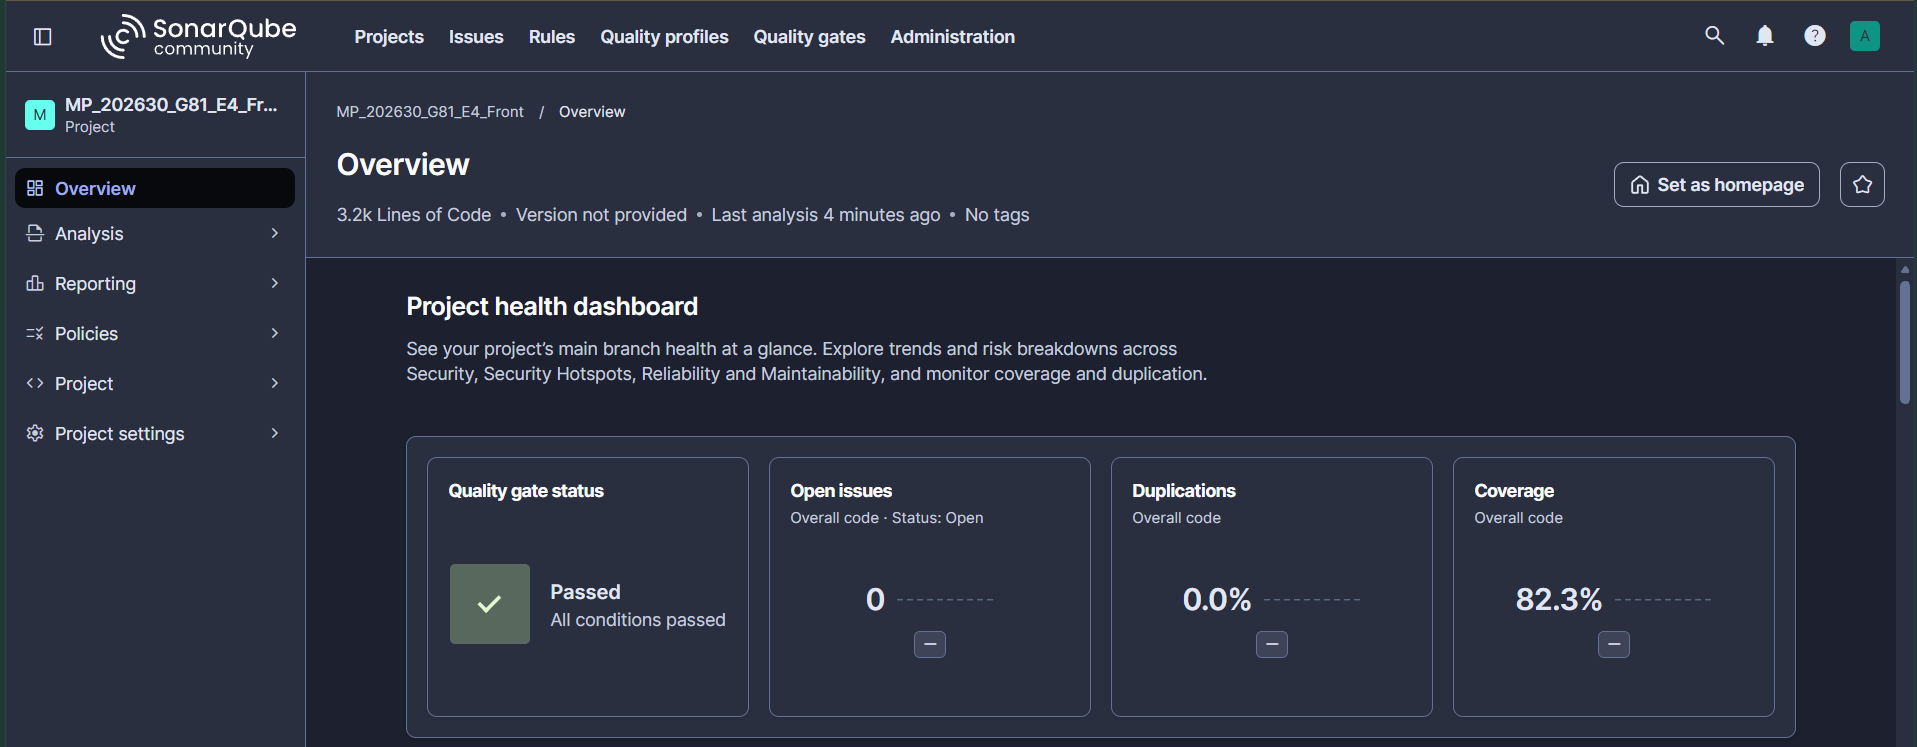
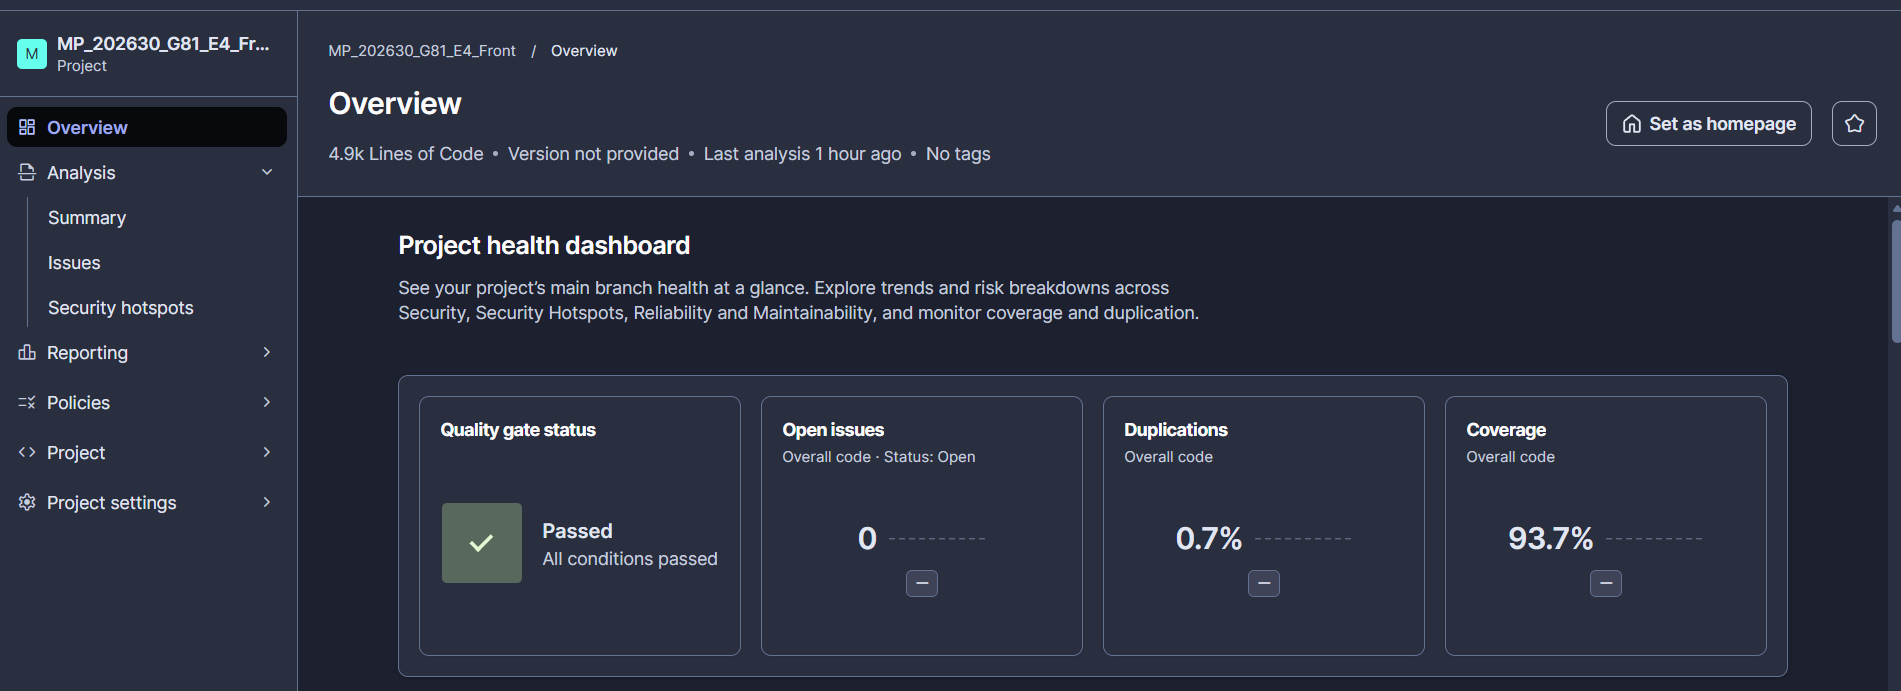
README

diff --git a/README.md b/README.md
@@ -264,6 +264,14 @@ La pantalla permite registrar, consultar, actualizar y eliminar refugios. Se pue
 ## Integración con Git
 Desarrollar la HU13 en `feature/hu13-gestionar-refugios`. Crear un Pull Request hacia `develop` y solicitar la revisión de un compañero antes de fusionar.
 
+## HU14 – Gestionar veterinarios
+
+Ruta: `/shelters/1/veterinarians`. El número corresponde al id del refugio; con los datos de ejemplo actuales solo existe el refugio 1.
+
+La pantalla muestra el refugio y dos paneles: la tabla de veterinarios registrados (nombre, licencia y teléfono, con acciones Editar y Eliminar) y un formulario para registrar un veterinario. Los tres campos son obligatorios y, si falta alguno, se informa cuál. Al pulsar Editar, el mismo formulario carga los datos del veterinario para actualizarlos. Al pulsar Eliminar se pide confirmación y, una vez eliminado, el veterinario deja de aparecer en la lista. Si el refugio no existe, la pantalla informa que no fue encontrado. Contempla los estados de carga, error y lista vacía.
+
+Estado de integración: La conexión con el backend está pendiente. La pantalla usa datos de ejemplo detrás de `src/services/veterinarianService.js`; al conectar el backend solo cambia el cuerpo de las funciones de ese servicio. El comportamiento de la interfaz se valida mediante pruebas automatizadas con Vitest y React Testing Library, utilizando servicios simulados (mocks).
+
 ## HU15 – Registrar reseña de una mascota
 
 Ruta: `/pets/1/reviews`. El número corresponde al id de la mascota; con los datos de ejemplo actuales solo existe la mascota 1.
@@ -271,11 +279,3 @@ Ruta: `/pets/1/reviews`. El número corresponde al id de la mascota; con los dat
 La pantalla muestra la ficha de la mascota, un formulario para dejar una reseña (calificación de 1 a 5 con estrellas y comentario obligatorio, con mensajes que explican el motivo cuando los datos no son válidos) y la lista de reseñas de esa mascota con su total. Al enviar una reseña válida, esta aparece al inicio de la lista. La reseña se firma con el usuario actual fijo definido en `src/config/currentUser.js`.
 
 Estado de integración: La conexión con el backend está pendiente. La pantalla usa datos de ejemplo detrás de `src/services/reviewService.js`; al conectar el backend solo cambia el cuerpo de las funciones de ese servicio. El comportamiento de la interfaz se valida mediante pruebas automatizadas con Vitest y React Testing Library, utilizando servicios simulados (mocks).
-
-## HU17 – Gestionar mensajes
-
-Ruta: `/messages`.
-
-La pantalla tiene dos bandejas, Recibidos y Enviados, con la lista de mensajes de cada una (remitente o destinatario, vista previa del contenido, fecha y estado Leído / No leído). Al abrir un mensaje recibido que aún no ha sido leído, se marca como leído. El panel de detalle muestra remitente, destinatario, fecha, estado y contenido. El remitente solo puede editar un mensaje mientras no ha sido leído, y un mensaje solo se puede eliminar después de haber sido leído; en ambos casos la interfaz deshabilita el botón y explica el motivo. El formulario "Nuevo mensaje" permite elegir un destinatario (sin incluir al usuario actual) y escribir el contenido, que es obligatorio; si el envío falla, se muestra el motivo informado por el servicio. La pantalla contempla los estados de carga, error y bandeja vacía. El usuario actual es fijo y se toma de `src/config/currentUser.js`.
-
-Estado de integración: [completar].
